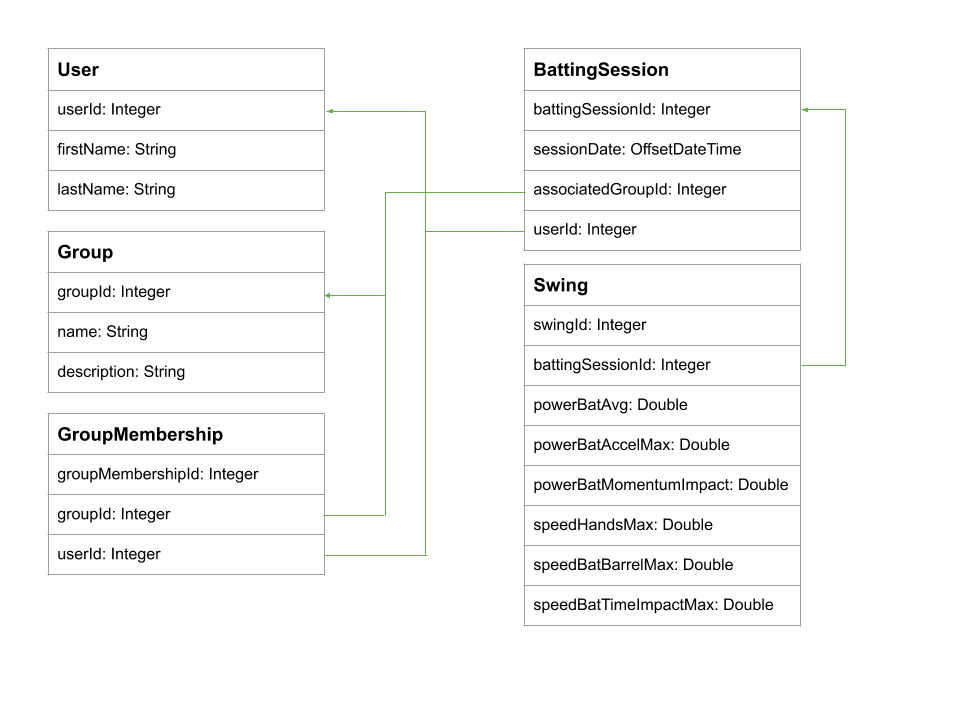
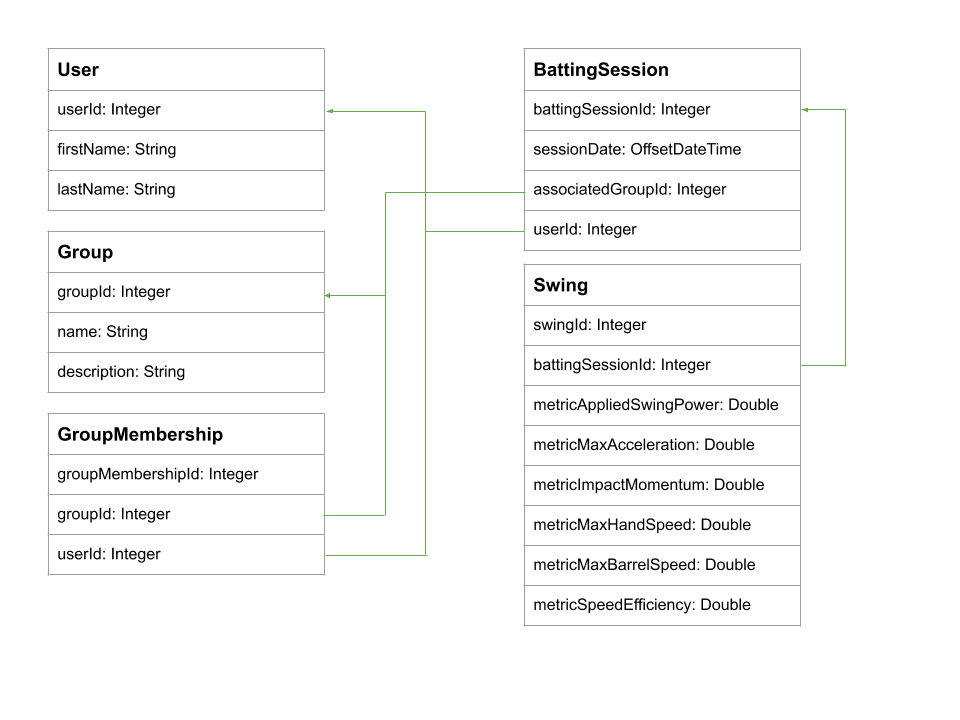
Updated swing metric field names and updated corresponding readme text.

diff --git a/leaderboard/src/main/java/com/diamondkinetics/codingchallenge/leaderboard/model/enums/SwingMetric.java b/leaderboard/src/main/java/com/diamondkinetics/codingchallenge/leaderboard/model/enums/SwingMetric.java
@@ -5,12 +5,12 @@ import java.lang.IllegalArgumentException;
 
 public enum SwingMetric {
 	
-	POWER_BAT_AVERAGE("powerBatAvg", "Applied Swing Power")
-	,POWER_BAT_ACCEL_MAX("powerBatAccelMax", "Maximum Acceleration")
-	,POWER_BAT_MOMENTUM("powerBatMomentumImpact", "Impact Momentum")
-	,SPEED_HANDS_MAX("speedHandsMax", "Maximum Hand Speed")
-	,SPEED_BAT_BARREL_MAX("speedBatBarrelMax", "Maximum Barrel Speed")
-	,SPEED_IMPACT_EFFICIENCY("speedBatTimeImpact", "Speed Efficiency");
+	APPLIED_SWING_POWER("metricAppliedSwingPower", "Applied Swing Power")
+	,MAX_ACCELERATION("metricMaxAcceleration", "Maximum Acceleration")
+	,IMPACT_MOMENTUM("metricImpactMomentum", "Impact Momentum")
+	,MAX_HAND_SPEED("metricMaxHandSpeed", "Maximum Hand Speed")
+	,MAX_BARREL_SPEED("metricMaxBarrelSpeed", "Maximum Barrel Speed")
+	,SPEED_EFFICIENCY("metricSpeedEfficiency", "Speed Efficiency");
 	
 	private String field;
 	private String name;

diff --git a/README.md b/README.md
@@ -19,14 +19,14 @@ models that will need to be utilized when implemented logic around Leaderboard f
 
 These models are already in the project under the package `com.diamondkinetics.codingchallenge.leaderboard.model`,
 please use them in your implementation. Blank LeaderboardConfig and LeaderboardResult model classes have been provided
-in the package as well. The properties in the Swing model that begin with power and speed are metrics
+in the package as well. The properties in the Swing model that begin with `metric` are swing metrics
 that are derived from our sensor data, an Enum for human readable names has been provided at
 `com.diamondkinetics.codingchallenge.leaderboard.model.enums.SwingMetric`.
 
 ## Instructions
 
 Given the above, add any properties and methods to the LeaderboardConfig and LeaderboardResult model classes that you
-think would allow for the creation and display of Leaderboards within the conext of a Group. Add any other necessary
+think would allow for the creation and display of Leaderboards within the context of a Group. Add any other necessary
 classes (service classes, helper classes, database/data access classes, etc) and their business logic you may need
 to use in order to facilitate creating Leaderbards and displaying their results. Include any unit tests you feel may be
 necessary as well.
